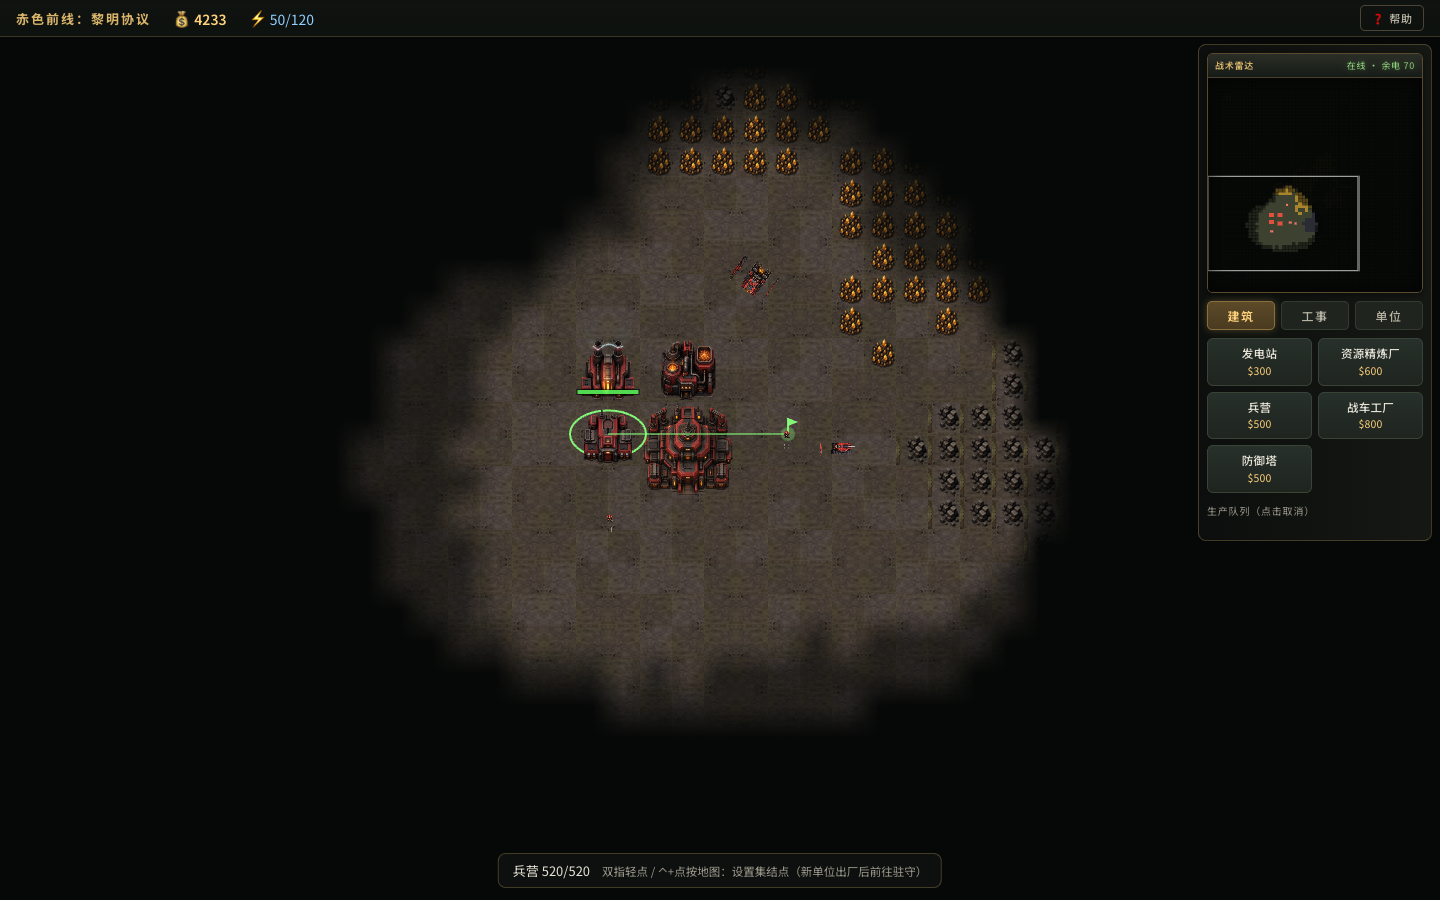
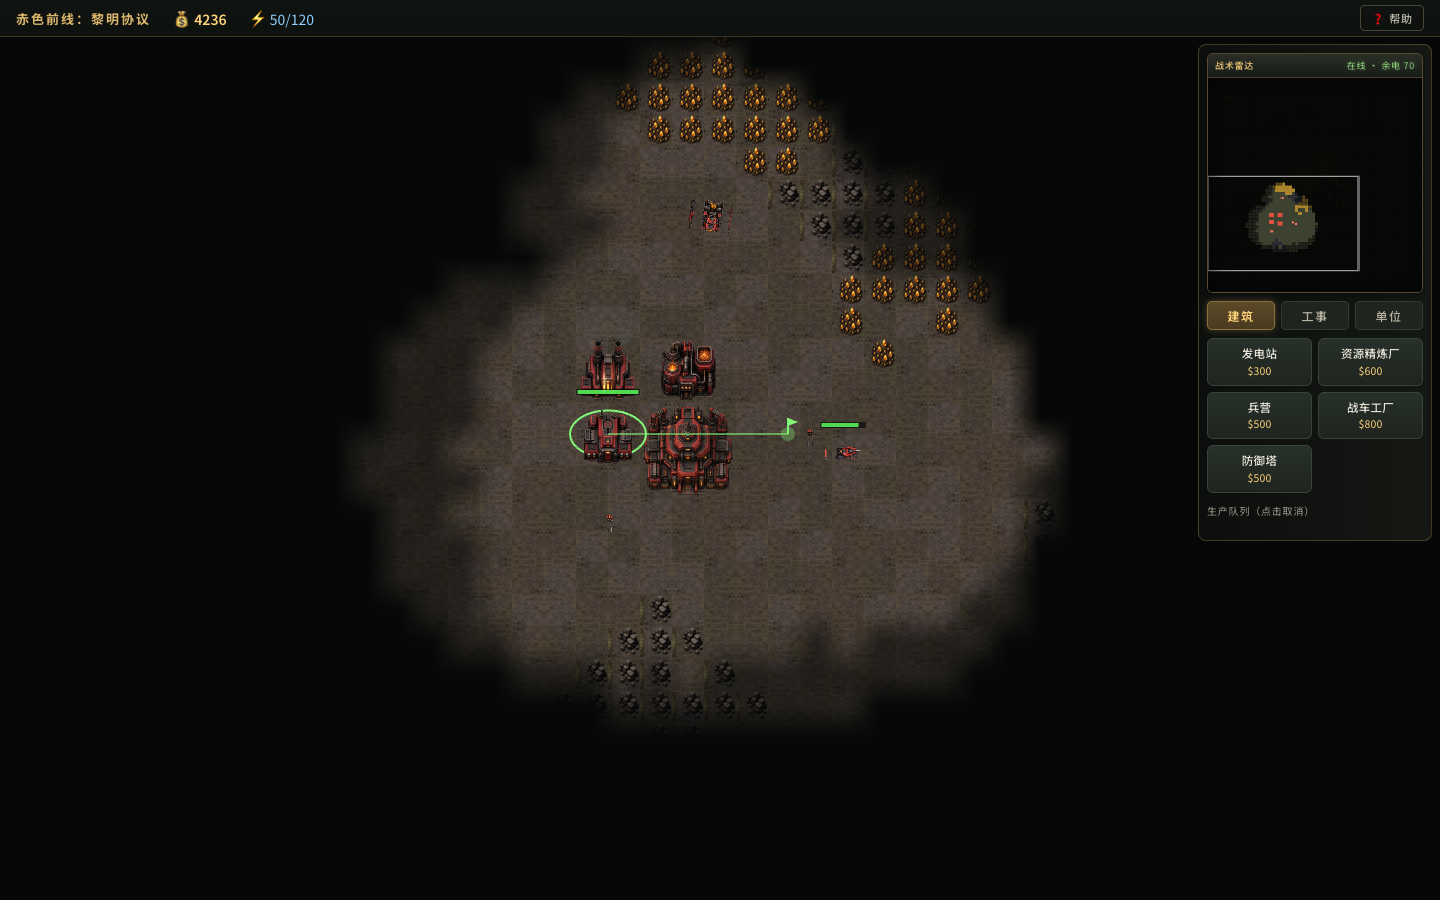
Enforce fixed construction zones

diff --git a/src/scenes/GameScene.ts b/src/scenes/GameScene.ts
@@ -364,10 +364,10 @@ export class GameScene extends Phaser.Scene {
         if (this.map.oreAt(x, y) > 0) return false;
       }
     }
-    // 建造范围：与任意己方建筑的距离不超过 BUILD_RADIUS
+    // 固定建造范围：只有指挥中心提供半径，其他建筑与工事都不能向外接龙。
     for (const b of this.buildings) {
       if (b.faction !== faction || !b.alive) continue;
-      if (b.stats.canAnchorBuild === false) continue;
+      if (b.kind !== 'constructionYard') continue;
       const dx = Math.max(b.tx - (tx + wt), tx - (b.tx + b.wt), 0);
       const dy = Math.max(b.ty - (ty + ht), ty - (b.ty + b.ht), 0);
       if (Math.hypot(dx, dy) <= BUILD_RADIUS) return true;
@@ -386,9 +386,11 @@ export class GameScene extends Phaser.Scene {
   /** AI 找位置并建造 */
   aiPlaceBuilding(kind: BuildingKind): boolean {
     const [wt, ht] = BUILDING_STATS[kind].size;
-    const own = this.buildings.filter((b) => b.faction === 'enemy' && b.alive);
+    const anchors = this.buildings.filter(
+      (b) => b.faction === 'enemy' && b.alive && b.kind === 'constructionYard',
+    );
     for (let attempt = 0; attempt < 90; attempt++) {
-      const anchor = own[Math.floor(Math.random() * own.length)];
+      const anchor = anchors[Math.floor(Math.random() * anchors.length)];
       if (!anchor) return false;
       const ang = Math.random() * Math.PI * 2;
       const dist = 3 + Math.floor(Math.random() * 5);
@@ -602,7 +604,14 @@ export class GameScene extends Phaser.Scene {
     else if (this.fog.isVisibleWorld(e.x, e.y)) this.pushMessage(`摧毁敌方${e.displayName}`);
 
     if (e instanceof Building && e.kind === 'constructionYard') {
-      this.endGame(e.faction === 'enemy' ? 'victory' : 'defeat');
+      const hasAnotherBase = this.buildings.some(
+        (b) => b !== e && b.faction === e.faction && b.alive && b.kind === 'constructionYard',
+      );
+      if (!hasAnotherBase) {
+        this.endGame(e.faction === 'enemy' ? 'victory' : 'defeat');
+      } else if (e.faction === 'player') {
+        this.pushMessage('一座前沿指挥中心被摧毁，其余基地仍在运转');
+      }
     }
   }
 
@@ -634,7 +643,7 @@ export class GameScene extends Phaser.Scene {
     const ty = Math.floor(mcv.y / TILE - ht / 2);
     for (let y = ty; y < ty + ht; y++) {
       for (let x = tx; x < tx + wt; x++) {
-        if (!this.map.isWalkable(x, y)) {
+        if (!this.map.isWalkable(x, y) || this.map.oreAt(x, y) > 0) {
           this.pushMessage('此处地形无法部署指挥中心');
           sfx.error();
           return;
@@ -742,6 +751,18 @@ export class GameScene extends Phaser.Scene {
     const ty = Math.floor(w.y / TILE - ht / 2 + 0.5);
     const ok = this.canPlace(this.placement, tx, ty, 'player');
     this.ghost.clear();
+    const range = BUILD_RADIUS * TILE;
+    this.ghost.lineStyle(2, 0x86ff7a, 0.32);
+    this.ghost.fillStyle(0x86ff7a, 0.025);
+    for (const yard of this.buildings) {
+      if (yard.faction !== 'player' || !yard.alive || yard.kind !== 'constructionYard') continue;
+      const rx = (yard.tx - BUILD_RADIUS) * TILE;
+      const ry = (yard.ty - BUILD_RADIUS) * TILE;
+      const rw = (yard.wt + BUILD_RADIUS * 2) * TILE;
+      const rh = (yard.ht + BUILD_RADIUS * 2) * TILE;
+      this.ghost.fillRoundedRect(rx, ry, rw, rh, range);
+      this.ghost.strokeRoundedRect(rx, ry, rw, rh, range);
+    }
     this.ghost.fillStyle(ok ? 0x3aff6e : 0xff4444, 0.35);
     this.ghost.fillRect(tx * TILE, ty * TILE, wt * TILE, ht * TILE);
     this.ghost.lineStyle(2, ok ? 0x3aff6e : 0xff4444, 0.9);

diff --git a/src/config.ts b/src/config.ts
@@ -7,7 +7,7 @@ export const WORLD_H = MAP_H * TILE;
 
 export const START_CREDITS = 4000;
 export const ENEMY_START_CREDITS = 5000;
-export const BUILD_RADIUS = 8; // 建造范围（格）
+export const BUILD_RADIUS = 8; // 指挥中心提供的固定建造半径（格）
 export const MAX_QUEUE = 5; // 生产队列上限
 export const ORE_PER_TILE = 350; // 每格矿石价值
 export const HARVEST_RATE = 140; // 采矿速度（资金/秒）
@@ -177,7 +177,6 @@ export interface BuildingStats {
   textureKey?: string; // 无阵营差异的工事素材
   visualSize?: [number, number]; // 视觉尺寸（像素），可与占地不同
   blocksMovement?: boolean; // 默认阻挡
-  canAnchorBuild?: boolean; // 默认可延伸建造范围
   terrainEffect?: 'ground' | 'ore'; // 放置后直接修改地图格
   orePerTile?: number;
 }
@@ -257,7 +256,6 @@ export const BUILDING_STATS: Record<BuildingKind, BuildingStats> = {
     sight: 0,
     textureKey: 'tile-ground-0',
     blocksMovement: false,
-    canAnchorBuild: false,
     terrainEffect: 'ground',
   },
   rockBarrier: {
@@ -271,7 +269,6 @@ export const BUILDING_STATS: Record<BuildingKind, BuildingStats> = {
     sight: 1,
     textureKey: 'tile-rock',
     visualSize: [38, 38],
-    canAnchorBuild: false,
   },
   oreDeposit: {
     name: '人工矿脉',
@@ -284,7 +281,6 @@ export const BUILDING_STATS: Record<BuildingKind, BuildingStats> = {
     sight: 0,
     textureKey: 'tile-ore',
     blocksMovement: false,
-    canAnchorBuild: false,
     terrainEffect: 'ore',
     orePerTile: 300,
   },
@@ -299,7 +295,6 @@ export const BUILDING_STATS: Record<BuildingKind, BuildingStats> = {
     sight: 1,
     textureKey: 'prop-sandbags',
     visualSize: [58, 39],
-    canAnchorBuild: false,
   },
   antiTank: {
     name: '反坦克拒马',
@@ -312,7 +307,6 @@ export const BUILDING_STATS: Record<BuildingKind, BuildingStats> = {
     sight: 1,
     textureKey: 'prop-anti-tank',
     visualSize: [36, 36],
-    canAnchorBuild: false,
   },
   crater: {
     name: '爆破弹坑',
@@ -326,7 +320,6 @@ export const BUILDING_STATS: Record<BuildingKind, BuildingStats> = {
     textureKey: 'prop-crater',
     visualSize: [38, 38],
     blocksMovement: false,
-    canAnchorBuild: false,
   },
   wreck: {
     name: '装甲残骸',
@@ -339,7 +332,6 @@ export const BUILDING_STATS: Record<BuildingKind, BuildingStats> = {
     sight: 1,
     textureKey: 'prop-wreck',
     visualSize: [34, 43],
-    canAnchorBuild: false,
   },
   supplyCrates: {
     name: '补给箱',
@@ -352,7 +344,6 @@ export const BUILDING_STATS: Record<BuildingKind, BuildingStats> = {
     sight: 1,
     textureKey: 'prop-crates',
     visualSize: [42, 34],
-    canAnchorBuild: false,
   },
   wall: {
     name: '加固城墙',
@@ -365,7 +356,6 @@ export const BUILDING_STATS: Record<BuildingKind, BuildingStats> = {
     sight: 1,
     textureKey: 'prop-wall',
     visualSize: [62, 41],
-    canAnchorBuild: false,
   },
   beacon: {
     name: '警戒灯',
@@ -379,7 +369,6 @@ export const BUILDING_STATS: Record<BuildingKind, BuildingStats> = {
     textureKey: 'prop-beacon',
     visualSize: [26, 26],
     blocksMovement: false,
-    canAnchorBuild: false,
   },
 };
 

diff --git a/src/ui/HUD.ts b/src/ui/HUD.ts
@@ -192,11 +192,12 @@ export class HUD {
               <li>① 工程车按 <kbd>F</kbd> 部署为指挥中心</li>
               <li>② 建<b>发电站</b>供电并点亮雷达（缺电会关闭）</li>
               <li>③ 建<b>资源精炼厂</b>，附赠采矿车自动赚钱</li>
-              <li>④ 回“建筑”页，在指挥中心旁绿色区域内建<b>兵营</b></li>
-              <li>⑤ 兵营完工后打开“单位”页训练<b>步兵</b></li>
-              <li>⑥ 精炼厂 → <b>战车工厂</b>解锁坦克，<b>防御塔</b>守家</li>
-              <li>⑦ “工事”页可部署城墙、障碍、警戒灯与矿脉</li>
-              <li>⑧ 攒一波装甲部队，端掉对面老家</li>
+              <li>④ 指挥中心提供固定建造圈；远处扩张需再部署一辆<b>基地工程车</b></li>
+              <li>⑤ 回“建筑”页，在绿色范围内建<b>兵营</b></li>
+              <li>⑥ 兵营完工后打开“单位”页训练<b>步兵</b></li>
+              <li>⑦ 精炼厂 → <b>战车工厂</b>解锁坦克，<b>防御塔</b>守家</li>
+              <li>⑧ “工事”页可部署城墙、障碍、警戒灯与矿脉</li>
+              <li>⑨ 攒一波装甲部队，端掉对面老家</li>
             </ul>
           </div>
         </div>

diff --git a/README.md b/README.md
@@ -94,7 +94,7 @@ npm run smoke      # 自动化试玩测试（需本机装有 Chrome，且 dev se
 | 战车工厂 | 生产轻型/重型坦克、采矿车、基地工程车 |
 | 防御塔 | 自动攻击射程内敌人，电力不足时瘫痪 |
 
-建造有**范围限制**（必须贴近己方建筑），并有**前置科技**要求（如战车工厂需要先建精炼厂）。
+建造有**固定范围限制**：每辆基地工程车部署后，会以新的指挥中心为核心生成一块独立的 8 格建造圈；电站、兵营、城墙等设施都不能继续向外延伸边界。想在远处开分基地，必须生产基地工程车、开到目标位置后再次部署。放置建筑时会显示所有指挥中心的半透明绿色边界；失去一个分基地不会立刻战败，只有全部指挥中心被摧毁才失败。科技建筑仍有前置要求（如战车工厂需要先建精炼厂）。
 
 ### 战场工事
 
@@ -113,7 +113,7 @@ npm run smoke      # 自动化试玩测试（需本机装有 Chrome，且 dev se
 | 加固城墙 | 高耐久的 2×1 重型防线 |
 | 警戒灯 | 可穿行、消耗少量电力并提供视野 |
 
-阻挡型工事会参与单位寻路；弹坑、警戒灯和路面允许穿行。工事本身不能延伸基地建造范围，避免通过廉价设施无限向地图外接龙。
+阻挡型工事会参与单位寻路；弹坑、警戒灯和路面允许穿行。所有建筑与工事都不能延伸指挥中心划定的固定建造范围。
 
 ### 经济与电力
 
@@ -158,4 +158,4 @@ scripts/
 
 ## 验证
 
-`npm run smoke` 会用本机 Chrome 真实加载游戏，模拟鼠标键盘完成：部署指挥中心 → 建电站/精炼厂/兵营 → 采矿增收 → 点选与右键移动 → 生产步兵 → 工事放置与阻挡 → 自动交火 → 迷雾遮蔽 → AI 扩张 → 胜负判定，共 27 项断言，并输出截图到 `scripts/shots/`。
+`npm run smoke` 会用本机 Chrome 真实加载游戏，模拟鼠标键盘完成：部署指挥中心 → 建电站/精炼厂/兵营 → 采矿增收 → 点选与右键移动 → 生产步兵 → 工事放置与阻挡 → 基地车异地扩张 → 自动交火 → 迷雾遮蔽 → AI 扩张 → 胜负判定，共 29 项断言，并输出截图到 `scripts/shots/`。
